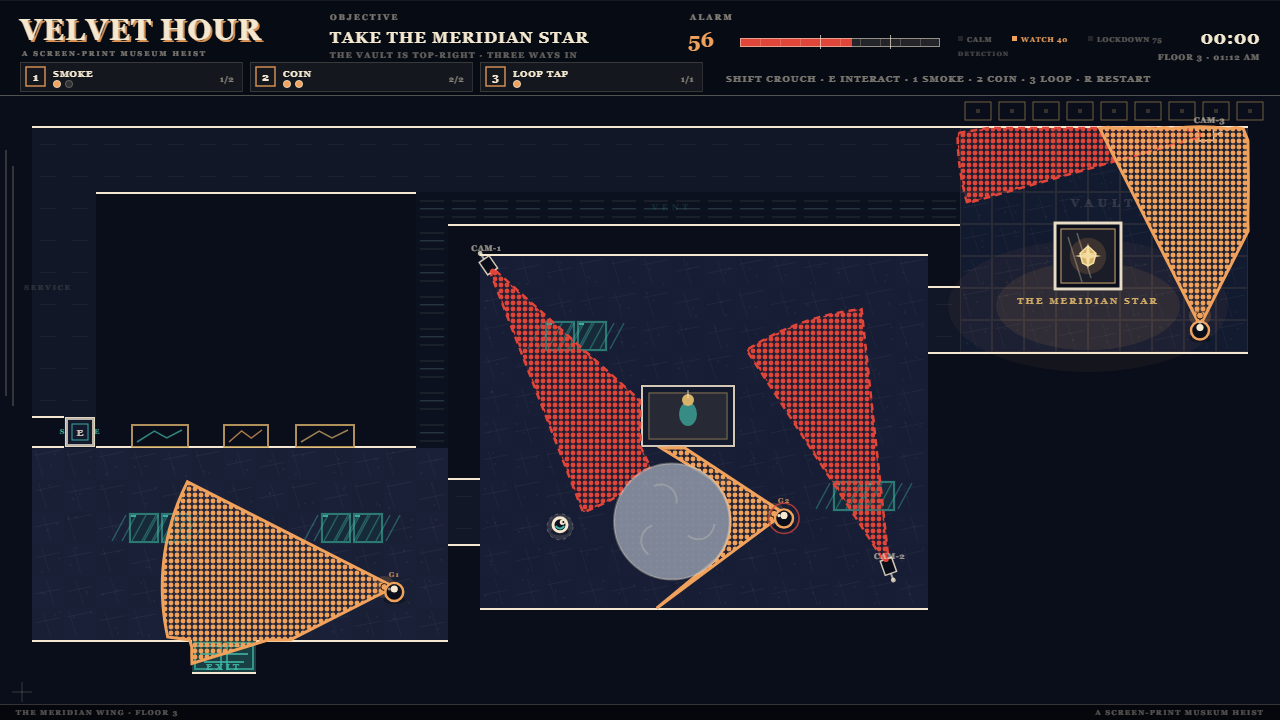
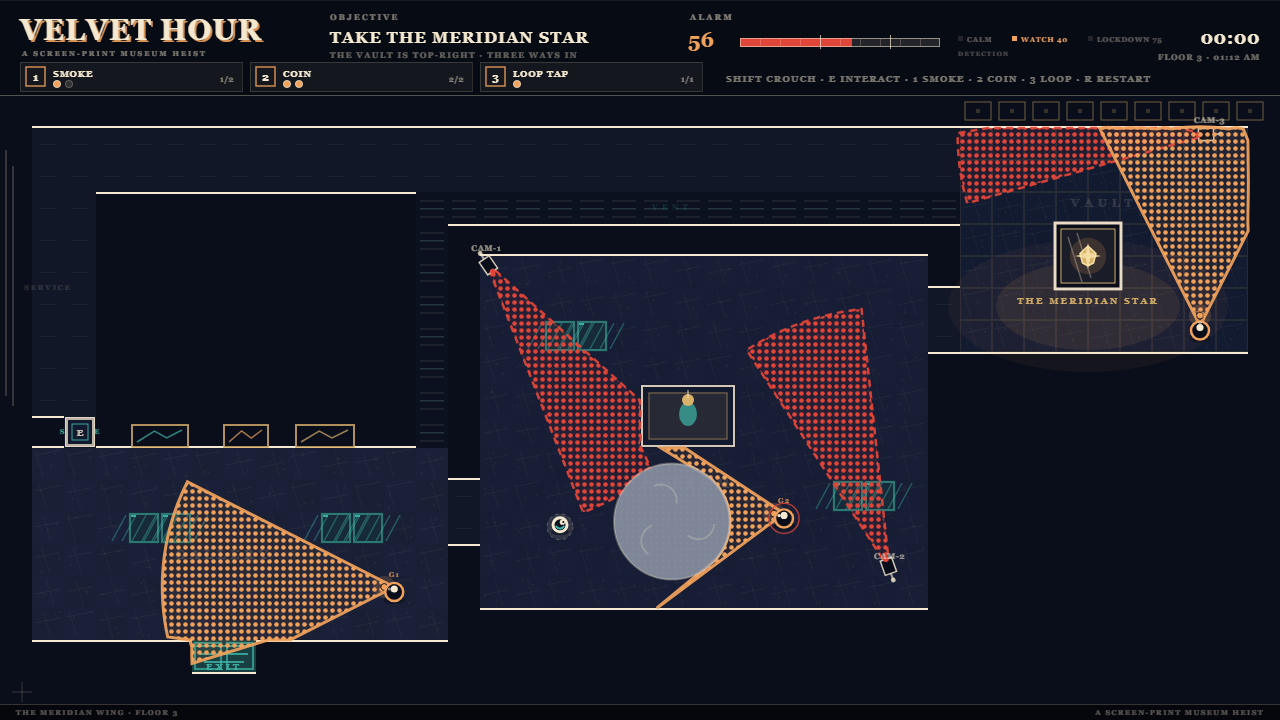
Velvet Hour: restore the lighter halftone screen

diff --git a/game/js/render.js b/game/js/render.js
@@ -59,9 +59,11 @@ function makeDot(ctx, color, size, radius, alpha) {
 let PATTERNS = null;
 function patterns(ctx) {
   if (PATTERNS) return PATTERNS;
+  // Dots stay light on purpose: at thumbnail size a denser screen muddies the
+  // fan into a solid block, so the crisp edge carries the read instead.
   PATTERNS = {
-    amber: makeDot(ctx, C.amber, 6, 2.45, 1),
-    alarm: makeDot(ctx, C.alarm, 6, 2.45, 1),
+    amber: makeDot(ctx, C.amber, 7, 2.3, 1),
+    alarm: makeDot(ctx, C.alarm, 7, 2.3, 1),
     teal: makeDot(ctx, C.teal, 7, 2.3, 1),
     cream: makeDot(ctx, C.cream, 8, 1.2, 0.75),
     smoke: makeDot(ctx, C.smoke, 6, 1.7, 0.7),
@@ -389,7 +391,7 @@ function fan(ctx, pts, color, pattern, dashed) {
   ctx.moveTo(pts[0].x, pts[0].y);
   for (let i = 1; i < pts.length; i++) ctx.lineTo(pts[i].x, pts[i].y);
   ctx.closePath();
-  ctx.strokeStyle = color;
+  ctx.strokeStyle = rgba(color, 0.92);
   ctx.lineWidth = dashed ? 2.5 : 3;
   ctx.setLineDash(dashed ? [7, 5] : []);
   ctx.stroke();
